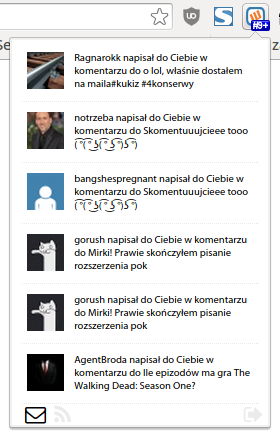
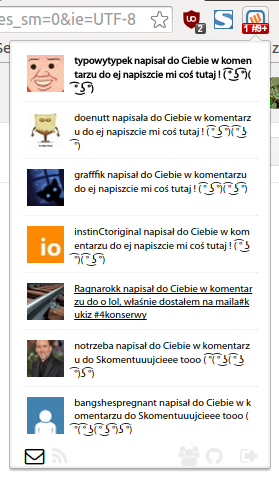
Fix login bug, update screenshots

diff --git a/ext/ts/ui/controllers/user.ts b/ext/ts/ui/controllers/user.ts
@@ -25,12 +25,12 @@ module Ext.UI {
         /** Pobieranie powiadomień */
         private loadNotifications() {
             /** w background jest asynchronicznie i może się nie zalogować */
-            if(!this.background.api.user) {
+            if(!this.background.user) {
                 setTimeout(this.loadNotifications.bind(this), 500);
                 return;
             }
             this.$scope.notifications = [];
-            this.background.api.user.Notifications
+            this.background.user.Notifications
                         [this.$scope.showTags
                             ? 'getTagsList'
                             : 'getList'
@@ -55,11 +55,43 @@ module Ext.UI {
             this.background.api.logout();
         }
     }
+
+
+    /** Otwieranie nowych linków w nowych zakładkach */
+    export class ExtHref implements ng.IDirective {
+        public restrict: string = 'A';
+        public link: ng.IDirectiveLinkFn = (scope: ng.IScope, element: ng.IAugmentedJQuery, attrs: any) => {
+            $(element)
+                .attr('href', attrs.extHref)
+                .click(() => {
+                    chrome.tabs.create({ url: attrs.extHref });
+                });
+        };
+
+        static factory(): ng.IDirectiveFactory { return () => new ExtHref; }
+    }
+
+    /** Wyświetlanie innego obrazu w razie błędu */
+    export class ErrSrc implements ng.IDirective {
+        public restrict: string = 'A';
+        public link: ng.IDirectiveLinkFn = (scope: ng.IScope, element: ng.IAugmentedJQuery, attrs: any) => {
+            element.bind('error', () => {
+                attrs.src != attrs.errSrc && attrs.$set('src', attrs.errSrc);
+            });
+        };
+
+        static factory(): ng.IDirectiveFactory { return () => new ErrSrc; }
+    }
     mod
         .controller('UserCtrl', UserCtrl)
+        .directive('extHref', ExtHref.factory())
+        .directive('errSrc', ErrSrc.factory())
         .filter('trusted', function($sce){
             return text => {
-                return $sce.trustAsHtml(JSON.parse('"' + text + '"'));
+                try {
+                    text = JSON.parse('"' + text + '"')
+                } catch(err) {}
+                return $sce.trustAsHtml(text);
             };
         });
 }

diff --git a/ext/ts/ui/background.ts b/ext/ts/ui/background.ts
@@ -15,31 +15,14 @@ module Ext {
     export module UI {
         /** Serwis zasobów */
         export class Background {
-            private background: ExtAPI = (<any> chrome.extension.getBackgroundPage()).Ext.Background;
-
             /** Metody skryptu background */
-            public get user(): CoreAppUser { return this.background.user; }
-            public get api(): ExtAPI { return this.background; }
-        }
-
-        /** Otwieranie nowych linków w nowych zakładkach */
-        export class ExtHref implements ng.IDirective {
-            public restrict: string = 'A';
-            public link: ng.IDirectiveLinkFn = (scope: ng.IScope, element: ng.IAugmentedJQuery, attrs: any) => {
-                $(element)
-                    .attr('href', attrs.extHref)
-                    .click(() => {
-                        chrome.tabs.create({ url: attrs.extHref });
-                    });
-            };
-
-            static factory(): ng.IDirectiveFactory {
-                return () => new ExtHref;
+            public get user(): CoreAppUser { return this.api.user; }
+            public get api(): ExtAPI {
+                return (<any> chrome.extension.getBackgroundPage()).Ext.Background;
             }
         }
         mod
             .service('background', Background)
-            .directive('extHref', ExtHref.factory())
             .run(($location: ng.ILocationService, background: Background) => {
                 $location.path(background.user ? '/user' : '/login');
             })

diff --git a/ext/less/popup.less b/ext/less/popup.less
@@ -2,7 +2,7 @@
   display: none;
 }
 html, body {
-  max-height: 385px;
+  min-height: 256px;
   overflow-y: auto;
 };
 body {
@@ -20,16 +20,14 @@ body {
   margin:   0;
 
   background:    #ffffff;
-  font-size:     1.5em;
+  font-size:     1.4em;
   width:         245px;
+  height:        20px;
   span:extend(.segment) {
     &.active { color: #000000; };
-    color:     #ebebeb;
+    color:          #ebebeb;
   };
-  img {
-    height: 1.5em;
-    width:  auto;
-  }
+  a:hover { color: black; };
 };
 .notifications-list {
   margin-bottom: 1.5em;
@@ -41,6 +39,15 @@ body {
     height:     auto;
     max-height: 38px;
   };
+  div[class*='col'] {
+    margin-bottom: 0;
+  };
+  .row .col80 {
+    word-break: break-all;
+  };
+  > div:last-of-type:not(:first-of-type) .divider.vertical {
+    border: 0;
+  };
 };
 .loading-screen {
   height:   200px;
@@ -50,6 +57,6 @@ body {
     position:  absolute;
     left:      50%;
     top:       50%;
-    transform: translate(-50%, -50%);;
+    transform: translate(-50%, -50%);
   };
 };

diff --git a/ext/ts/background/background.ts b/ext/ts/background/background.ts
@@ -89,8 +89,9 @@ module Ext.Background {
      * @param {boolean} apiMode Tryb API pobiera wszystko z serwera API
      */
     export function setApiMode(apiMode: boolean = false) {
-        storage.apiMode = apiMode;
-        return apiMode && loadCachedClient();
+        return !(storage.apiMode = apiMode)
+                ? false
+                : (user = loadCachedClient());
     }
 
     /**
@@ -107,8 +108,10 @@ module Ext.Background {
 
     /** Wylogowywanie się */
     export function logout() {
-        stopIntervals();
-        storage.clear.bind(storage);
+        storage.clear();
         user = null;
+        chrome.browserAction.setBadgeText({
+            text: ''
+        });
     }
 }

diff --git a/ext/ts/background/parser.ts b/ext/ts/background/parser.ts
@@ -38,7 +38,7 @@ module Ext.Parser {
                     let html = d.responseText.match(/"data":{"html":"(.*)"}}/)[1];
                     html = html
                         .replace(/\\r|\\n|\\t/g, '')
-                        .replace(/\\"|\/f/g, '"')
+                        .replace(/\\"/g, '"')
                         .replace(/\\\//g, '/');
                     defer.resolve($(html).find('p'));
                 });

diff --git a/ext/ts/ui/controllers/login.ts b/ext/ts/ui/controllers/login.ts
@@ -21,7 +21,7 @@ module Ext.UI {
 
         /** Logowanie się do background */
         public login() {
-            if(!this.background.api.setApiMode(this.$scope.apiMode)
+            if(this.background.api.setApiMode(this.$scope.apiMode)
                     || this.background.api.login(this.$scope.data))
                 this.$location.path('/user');
             else
